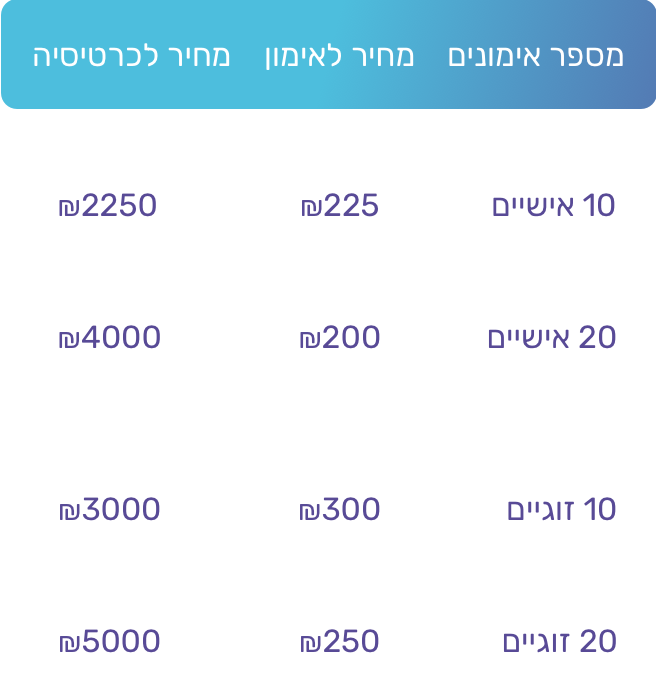
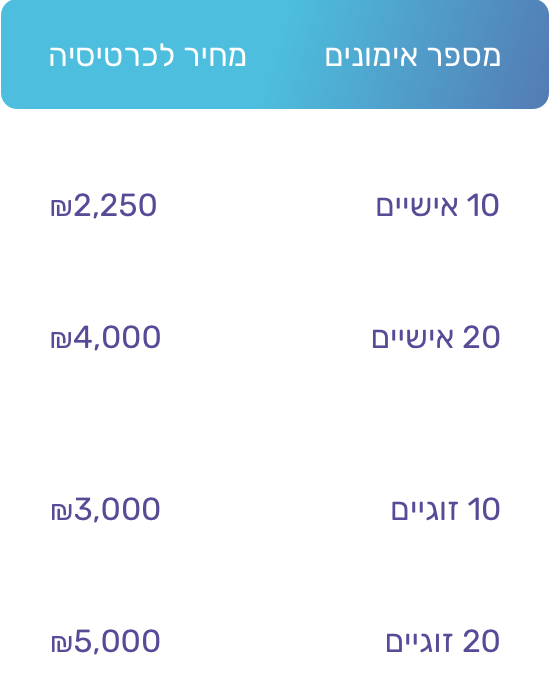
animation position fixes, pricing, reveal heading update

diff --git a/src/scripts/main.js b/src/scripts/main.js
@@ -10,19 +10,22 @@
         closeCtrl = navEl.querySelector('.close-menu');
 
     document.querySelector('.nav-icon').addEventListener('click', function() {
-        console.log('click')
-        revealer.reveal({
-            bgcolor: getComputedStyle(navEl).getPropertyValue('--color-third'),
-            duration: 300, 
-            easing: 'easeInOutCubic',
-            onCover: function(contentEl, revealerEl) {
-                navEl.classList.add('menu--open');
-                contentEl.style.opacity = 1;
-            },
-            onComplete: function() {
-                closeCtrl.addEventListener('click', closeMenu);
-            }
-        });
+        navEl.classList.add('to-position');
+
+        setTimeout(() => {
+            revealer.reveal({
+                bgcolor: getComputedStyle(navEl).getPropertyValue('--color-third'),
+                duration: 300, 
+                easing: 'easeInOutCubic',
+                onCover: function(contentEl, revealerEl) {
+                    navEl.classList.add('menu--open');
+                    contentEl.style.opacity = 1;
+                },
+                onComplete: function() {
+                    closeCtrl.addEventListener('click', closeMenu);
+                }
+            });
+        }, 10);
     });
 
     function closeMenu() {
@@ -36,11 +39,12 @@
             onCover: function(contentEl, revealerEl) {
                 navEl.classList.remove('menu--open');
                 contentEl.style.opacity = 0;
+            },
+            onComplete: function() {
+                navEl.classList.remove('to-position');
             }
         });
     }
-    
-    
 
 
     // Contact Overlay
@@ -49,18 +53,22 @@
         closeFormElm = formEl.querySelector('.close-form-overlay');
 
     document.querySelector('.open-overlay button').addEventListener('click', function() {
-        formRevealer.reveal({
-            bgcolor: getComputedStyle(formEl).getPropertyValue('--color-third'),
-            direction: 'tb',
-            duration: 300,
-            onCover: function(contentEl, revealerEl) {
-                formEl.classList.add('overlay-open');
-                contentEl.style.opacity = 1;
-            },
-            onComplete: function() {
-                closeFormElm.addEventListener('click', closeForm);
-            }
-        });
+        formEl.classList.add('to-position');
+
+        setTimeout(() => {
+            formRevealer.reveal({
+                bgcolor: getComputedStyle(formEl).getPropertyValue('--color-third'),
+                direction: 'bt',
+                duration: 400,
+                onCover: function(contentEl, revealerEl) {
+                    formEl.classList.add('overlay-open');
+                    contentEl.style.opacity = 1;
+                },
+                onComplete: function() {
+                    closeFormElm.addEventListener('click', closeForm);
+                }
+            });
+        }, 10);
     });
 
     function closeForm() {
@@ -69,15 +77,36 @@
         formRevealer.reveal({
             bgcolor: getComputedStyle(formEl).getPropertyValue('--color-third'),
             direction: 'tb',
-            duration: 300, 
+            duration: 400, 
             onCover: function(contentEl, revealerEl) {
                 formEl.classList.remove('overlay-open');
                 contentEl.style.opacity = 0;
+            },
+            onComplete: function() {
+                formEl.classList.remove('to-position');
             }
         });
     }
 
-    formEl.addEventListener('submit', function(ev) {ev.preventDefault();});
 
-    
+    // form
+    const handleSubmit = (event) => {
+        event.preventDefault();      
+        const myForm = event.target;
+        const formData = new FormData(myForm);
+        
+        fetch("/", {
+            method: "POST",
+            headers: { "Content-Type": "application/x-www-form-urlencoded" },
+            body: new URLSearchParams(formData).toString(),
+        })
+        .then(() => {
+            console.log("Form successfully submitted");
+            console.log(formData);
+            closeForm();
+        })
+        .catch((error) => alert(error));
+    };
+
+    formEl.addEventListener("submit", handleSubmit);    
 })();

diff --git a/src/sass/_pricing.scss b/src/sass/_pricing.scss
@@ -7,7 +7,6 @@
     flex-direction: column;
     align-items: center;
     justify-content: center;
-    margin-top: 24px;
 
     .pricing-tabs {
         display: flex;
@@ -48,6 +47,10 @@
     .pricing-content {
         margin-top: 24px;
 
+        &.personal {
+            margin-top: 0;
+        }
+
         .tab-content {
             display: none;
             @include transition(0.2s, all, ease-in);
@@ -55,11 +58,15 @@
             &.active {
                 display: block;
             }
+        }
 
-            img {
-                @include mq($mobile-l, max-width) {
-                    max-width: 280px;
-                }
+        img {
+            @include mq($mobile-l, max-width) {
+                max-width: 280px;
+            }
+
+            &.personal {
+                max-width: 550px;
             }
         }
 
@@ -75,5 +82,34 @@
             }
         }
     }
-  }
+}
+
+.pricing-terms {
+    margin-top: 16px;
+    
+    @include mq(400) {
+        text-align: center;
+    }
+
+    ul {
+        list-style-image: url("/img/icons/i-star-bullet.svg");
+        list-style-position: inside;
+        margin: 0;
+        padding: 0;
+
+        li {
+            font-size: em(14px);
+        }
+    }
+}
+
+.star-sep {
+    display: flex;
+    justify-content: center;
+
+    img {
+        height: 30px;
+        margin: 0 4px;
+    }
+}
   

diff --git a/src/sass/_reveal.scss b/src/sass/_reveal.scss
@@ -21,18 +21,16 @@
     }
 
     &.title-bg {
-        transition: 300ms all ease-in-out;
+        transition: 300ms all ease-in-out;        
 
         &.yellow {
-            background-color: var(--color-second)
-            // border-right: 6px solid var(--color-second);
-            // padding-inline-start: 8px;
+            background-color: var(--color-second);
+            padding: 0 8px;
         }
 
         &.blue {
             border-right: 6px solid var(--color-main);
             padding-inline-start: 8px;
-            // background-color: $tdbc-color-primary;
         }
     }
 }

diff --git a/src/sass/_cta.scss b/src/sass/_cta.scss
@@ -4,7 +4,8 @@
 .cta {
     position: relative;
     width: 100%;
-    height: 400px;
+    height: 350px;
+    margin-top: 24px;
     background-image: url('/img/content/hadas-worth-it-studio-pepole.png');
     background-size: cover;
     background-position: 50% 50%;    
@@ -12,6 +13,7 @@
     z-index: 1;
 
     @include mq($desktop) {
+        margin-top: 0;
         background-attachment: fixed;
     }
 

diff --git a/src/sass/_contact.scss b/src/sass/_contact.scss
@@ -5,12 +5,16 @@
 	width: 100%;
 	height: 100vh;
 	position: fixed;
-	bottom: 0;
+	bottom: -100%;
 	left: 0;
     z-index: 10001;
     pointer-events: none;
 
-    &.overlay-open {
+    &.to-position {
+        bottom: 0;
+    }
+
+    &.overlay-open {        
         pointer-events: visible;
 
         .form-section {

diff --git a/src/scripts/home.js b/src/scripts/home.js
@@ -52,10 +52,10 @@
     });
 
     watcher_home_fold.enterViewport(function() {
-        homeFoldImage.reveal();
         homeFoldTitle.reveal();
         homeFoldSubtitle.reveal();
         homeFoldContent.reveal();
+        homeFoldImage.reveal();
         watcher_home_fold.destroy();
     });
 

diff --git a/src/sass/_side-menu.scss b/src/sass/_side-menu.scss
@@ -5,11 +5,15 @@
 .side-menu {
 	position: fixed;
 	top: 0;
-	right: 0;
+	right: -100%;
 	height: 100vh;
 	width: 320px;
 	z-index: 10001;
     pointer-events: none;
+
+    &.to-position {
+        right: 0;
+    }
 
     @include mq($tablet) {
         display: none;

diff --git a/src/sass/_typography.scss b/src/sass/_typography.scss
@@ -41,6 +41,10 @@ li {
 
 p {
 	margin: 0 0 1rem;
+
+    &.center {
+        text-align: center;
+    }
 }
 
 article {
